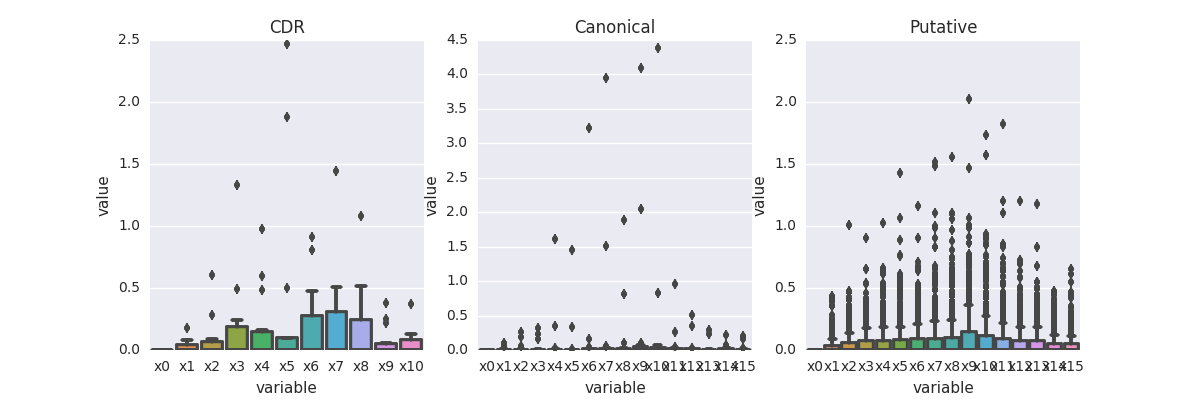
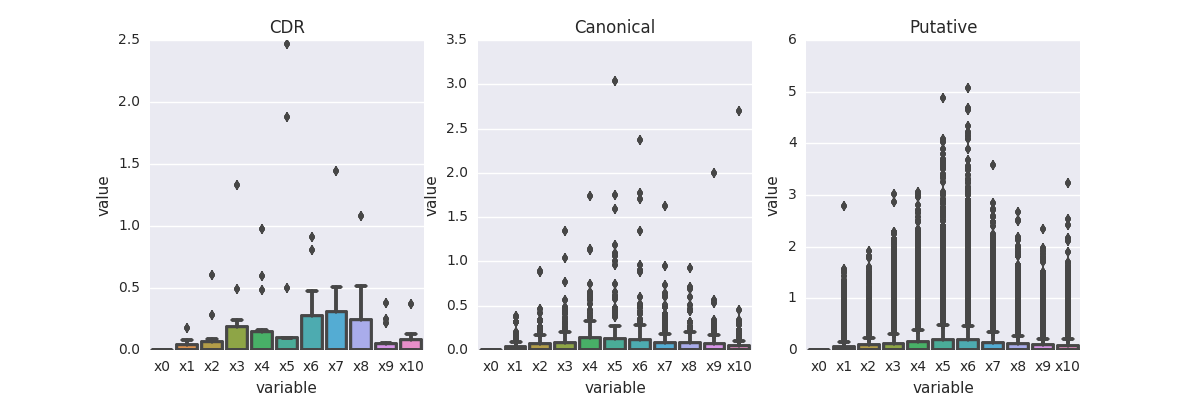
more read,e

diff --git a/README.md b/README.md
@@ -39,6 +39,8 @@ There are no critical differences for CDR sequences, therefore for each sequence
 
 <img src="plots/maxmin_len11_x_proc.png">
 
+<img src="plots/maxmin_len11_y_proc.png">
+
 Then we choose the mean coordinate values (like in CDRs) per sequence.
 
 Numbers of the sequences / unique sequences per length per data type:
